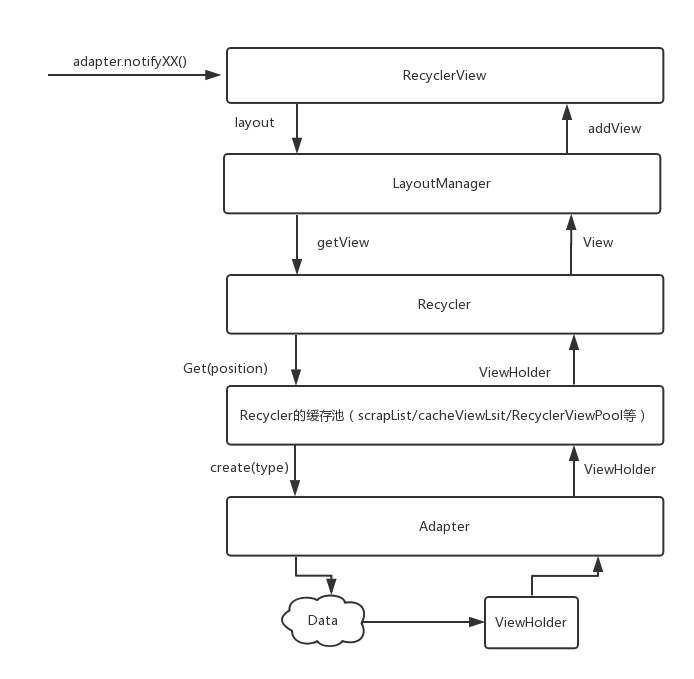
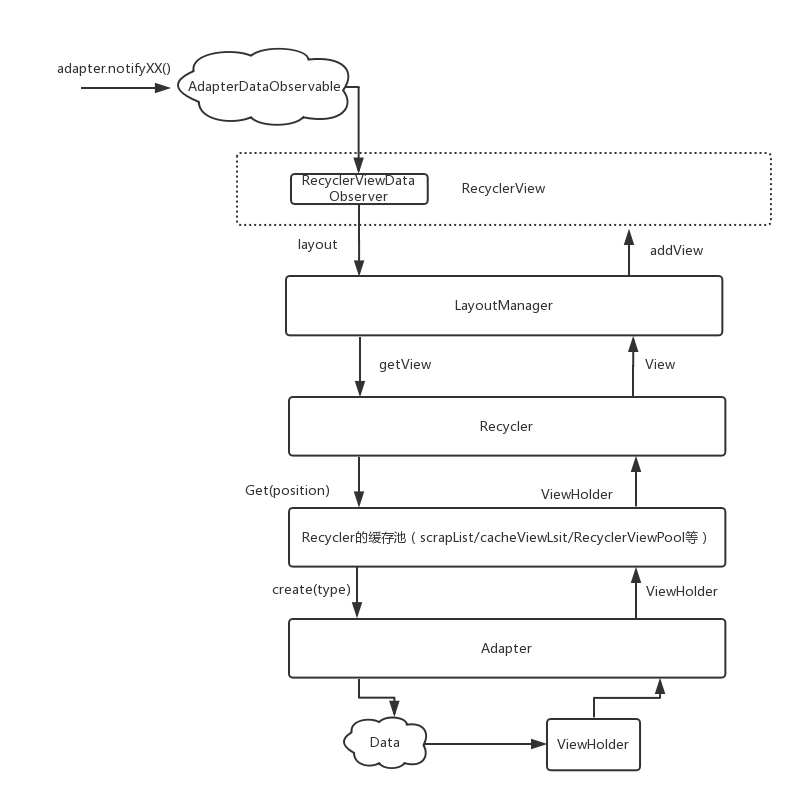
chore:添加 RecyclerView刷新机制 草稿

diff --git a/AndroidFramework源码分析/recyclerview/RecyclerView的刷新机制.md b/AndroidFramework源码分析/recyclerview/RecyclerView的刷新机制.md
@@ -1,0 +1,228 @@
+>前面分析了[RecyclerView的基本结构](https://github.com/SusionSuc/AdvancedAndroid/blob/master/AndroidFramework%E6%BA%90%E7%A0%81%E5%88%86%E6%9E%90/recyclerview/RecyclerView%E7%9A%84%E5%9F%BA%E6%9C%AC%E7%BB%84%E6%88%90%E7%BB%93%E6%9E%84.md)
+>本文继续来看一下`RecyclerView`是如何`完成UI的刷新`以及`在滑动时子View是如何被添加的`。
+
+本文会从源码分析两件事 :
+
+1. `adapter.notifyXXX()`时RecyclerView的UI刷新的逻辑,即`子View`是如何添加到`RecyclerView`中的。
+2. 在数据存在的情况下，滑动`RecyclerView`时`子View`是如何添加到`RecyclerView`的。
+
+本文不会涉及到`RecyclerView`的动画，动画的实现会专门在一篇文章中分析。
+
+## `adapter.notifyDataSetChanged()`引起的刷新
+
+我们假设`RecyclerView`在初始状态是没有数据的，然后往数据源中加入数据后，调用`adapter.notifyDataSetChanged()`来引起`RecyclerView`的刷新:
+```
+data.addAll(datas)
+adapter.notifyDataSetChanged()
+```
+用图描述就是下面两个状态的转换:
+
+![](picture/adapter.notifyDataSetChanged.png)
+
+接下来就来分析这个变化的源码，在上一篇文章中已经解释过，`adapter.notifyDataSetChanged()`时，会引起`RecyclerView`重新布局(`requestLayout`)，`RecyclerView`的`onMeasure`就不看了，核心逻辑不在这里。因此从`onLayout()`方法开始看:
+
+### RecyclerView.onLayout
+
+这个方法直接调用了`dispatchLayout`:
+```
+void dispatchLayout() {
+    ...
+    if (mState.mLayoutStep == State.STEP_START) {
+        dispatchLayoutStep1();
+        dispatchLayoutStep2();
+    } else if (数据变化 || 布局变化) {
+        dispatchLayoutStep2();
+    }
+    dispatchLayoutStep3();
+}
+```
+
+上面我裁剪掉了一些代码，可以看到整个布局过程总共分为3步, 下面是这3步对应的方法:
+
+```
+STEP_START ->  dispatchLayoutStep1()
+STEP_LAYOUT -> dispatchLayoutStep2()
+STEP_ANIMATIONS -> dispatchLayoutStep2(), dispatchLayoutStep3()
+```
+
+第一步`STEP_START`主要是来存储当前`子View`的状态并确定是否要执行动画。这一步就不细看了。 而第3步`STEP_ANIMATIONS`是来执行动画的，本文也不分析了，本文主要来看一下第二步`STEP_LAYOUT`,即`dispatchLayoutStep2()`:
+
+#### dispatchLayoutStep2()
+
+先来看一下这个方法的大致执行逻辑:
+
+```
+private void dispatchLayoutStep2() {  
+    startInterceptRequestLayout(); //方法执行期间不能重入
+    ...
+    //设置好初始状态
+    mState.mItemCount = mAdapter.getItemCount();
+    mState.mDeletedInvisibleItemCountSincePreviousLayout = 0;
+    mState.mInPreLayout = false;
+
+    mLayout.onLayoutChildren(mRecycler, mState); //调用布局管理器去布局
+
+    mState.mStructureChanged = false;
+    mPendingSavedState = null;
+    ...
+    mState.mLayoutStep = State.STEP_ANIMATIONS; //接下来执行布局的第三步
+
+    stopInterceptRequestLayout(false);
+}
+```
+
+这里有一个`mState`，它是一个`RecyclerView.State`对象。顾名思义它是用来保存`RecyclerView`状态的一个对象，主要是在`LayoutManager、Adapter等`组件之间共享状态的。可以看到这个方法将布局的工作交给了`mLayout`。这里它的实例是`LinearLayoutManager`，因此接下来看一下`LinearLayoutManager.onLayoutChildren()`:
+
+### LinearLayoutManager.onLayoutChildren()
+
+这个方法也挺长的，就不展示具体源码了。不过布局逻辑还是很简单的:
+
+1. 确定锚点`(Anchor)View`, 设置好`AnchorInfo`
+2. 确定有多少布局空间可用``
+3. 根据当前设置的`LinearLayoutManager`的方向(是否是reverse),开始摆放子View
+
+接下来就从源码来看这三步。
+
+#### 确定锚点View
+
+锚点View大部分是通过`updateAnchorFromChildren`方法确定的,这个方法主要是获取一个View，把它的信息设置到`AnchorInfo`中 :
+
+```
+mAnchorInfo.mLayoutFromEnd = mShouldReverseLayout   // 即和你是否在 manifest中设置了布局 rtl 有关
+
+private boolean updateAnchorFromChildren(RecyclerView.Recycler recycler, RecyclerView.State state, AnchorInfo anchorInfo) {
+    ...
+    View referenceChild = anchorInfo.mLayoutFromEnd
+            ? findReferenceChildClosestToEnd(recycler, state) //如果是从end(尾部)位置开始布局，那就找最接近end的那个位置的View作为锚点View
+            : findReferenceChildClosestToStart(recycler, state); //如果是从start(头部)位置开始布局，那就找最接近start的那个位置的View作为锚点View
+
+    if (referenceChild != null) {
+        anchorInfo.assignFromView(referenceChild, getPosition(referenceChild)); 
+        ...
+        return true;
+    }
+    return false;
+}
+```
+
+即， 如果是`start to end`, 那么就找最接近start(RecyclerView头部)的View作为布局的锚点View。如果是`end to start (rtl)`, 就找最接近end的View作为布局的锚点。
+
+`AnchorInfo`最重要的两个属性时`mCoordinate`和`mPosition`，找到锚点View后就会设置这两个属性，即` anchorInfo.assignFromView()`方法:
+```
+public void assignFromView(View child, int position) {
+    if (mLayoutFromEnd) {
+        mCoordinate = mOrientationHelper.getDecoratedEnd(child) + mOrientationHelper.getTotalSpaceChange();
+    } else {
+        mCoordinate = mOrientationHelper.getDecoratedStart(child);  
+    }
+    mPosition = position;
+}
+```
+
+`mCoordinate`其实就是`锚点View`的`Y(X)`坐标去掉`RecyclerView`的padding。`mPosition`其实就是`锚点View`的位置。
+
+#### 确定有多少布局空间可用并填充子View
+
+当确定好`AnchorInfo`后，需要根据`AnchorInfo`来确定`RecyclerView`当前可用于布局的空间,然后来填充子View。以布局方向为`start to end (正常方向)`为例, 这里的`锚点View`其实是`RecyclerView`最顶部的View:
+
+```
+    // fill towards end
+    updateLayoutStateToFillEnd(mAnchorInfo); //确定布局可用空间
+    ...
+    fill(recycler, mLayoutState, state, false); //填充view
+    endOffset = mLayoutState.mOffset; 
+
+    // fill towards start  
+    updateLayoutStateToFillStart(mAnchorInfo);
+    ...
+    fill(recycler, mLayoutState, state, false);
+```
+
+来看一下可用布局空间是如何确定的`updateLayoutStateToFillEnd()`:
+
+```
+updateLayoutStateToFillEnd(anchorInfo.mPosition, anchorInfo.mCoordinate);
+
+void updateLayoutStateToFillEnd(int itemPosition, int offset) {
+    mLayoutState.mAvailable = mOrientationHelper.getEndAfterPadding() - offset;
+    ...
+    mLayoutState.mCurrentPosition = itemPosition;
+    mLayoutState.mLayoutDirection = LayoutState.LAYOUT_END;
+    mLayoutState.mOffset = offset;
+    mLayoutState.mScrollingOffset = LayoutState.SCROLLING_OFFSET_NaN;
+}
+```
+
+`mLayoutState`是`LinearLayoutManager`用来保存布局状态的一个对象。`mLayoutState.mAvailable`就是用来表示`有多少空间可用来布局`。`mOrientationHelper.getEndAfterPadding() - offset`其实大致可以理解为`RecyclerView`的高度。*所以这里可用布局空间就是RecyclerView的高度*
+
+接下来继续看`LinearLayoutManager.fill()`方法，这个方法是布局的核心方法，是用来向`RecyclerView`中添加子View的方法:
+
+```
+int fill(RecyclerView.Recycler recycler, LayoutState layoutState, RecyclerView.State state, boolean stopOnFocusable) {
+    final int start = layoutState.mAvailable;  //前面分析，其实就是RecyclerView的高度
+    ...
+    int remainingSpace = layoutState.mAvailable + layoutState.mExtra;  //extra 是你设置的额外布局的范围, 这个一般不推荐设置
+    LayoutChunkResult layoutChunkResult = mLayoutChunkResult;
+    while ((layoutState.mInfinite || remainingSpace > 0) && layoutState.hasMore(state)) {
+        layoutChunkResult.resetInternal();
+        ...
+        layoutChunk(recycler, state, layoutState, layoutChunkResult);   //布局的核心方法
+        ...
+        layoutState.mOffset += layoutChunkResult.mConsumed * layoutState.mLayoutDirection; // 一次 layoutChunk 消耗了多少空间
+        ...
+        子View的回收工作
+    }
+    ...
+}
+```
+
+这里我们不看`子View回收逻辑`，会在单独的一篇文章中讲, 即这个方法的核心是调用`layoutChunk()`来不断消耗`layoutState.mAvailable`,直到消耗完毕。继续看一下`layoutChunk()方法`, 这个方法的主要逻辑是:
+
+1. 从`Recycler`中获取一个`View`
+2. 添加到`RecyclerView`中
+3. 调整`View`的布局参数，调用其`onMeasure、onLayout`方法。
+
+```
+void layoutChunk(RecyclerView.Recycler recycler, RecyclerView.State state,LayoutState layoutState, LayoutChunkResult result) {
+        View view = layoutState.next(recycler);  //这个方法会向 recycler view 要一个holder 
+        ...
+        if (mShouldReverseLayout == (layoutState.mLayoutDirection == LayoutState.LAYOUT_START)) {
+            addView(view);   
+        } else {
+            addView(view, 0);
+        }
+        measureChildWithMargins(view, 0, 0);    //调用view的measure
+        
+        ...measure后确定布局参数
+
+        layoutDecoratedWithMargins(view, left, top, right, bottom); //调用view的layout
+        ...
+    }
+```
+
+到这里其实就完成了上面的`fill towards end`:
+```
+    updateLayoutStateToFillEnd(mAnchorInfo); //确定布局可用空间
+    ...
+    fill(recycler, mLayoutState, state, false); //填充view
+```
+
+其实还有`fill towards start`:
+
+```
+    updateLayoutStateToFillStart(mAnchorInfo);
+    ...
+    fill(recycler, mLayoutState, state, false);
+```
+
+`fill towards end`我们前面已经看了，其实就是从头部开始，把子View添加到`RecyclerView`的尾部，那`fill towards start`是什么含义呢？
+
+
+
+
+
+
+
+
+
+

diff --git a/README.md b/README.md
@@ -22,25 +22,7 @@
 
 > [Android中的P与V如何写更解耦](零散但很重要/Android中的P与V如何写更解耦.md) 
 
-# 为什么要开这个repo
-
-我做`Android`的时间也不短了，近半年我越来越发现做好公司分配给我的业务并不能给我的`Android`技能带了很大的提升，因为大部分时候都在写着重复的代码。于是呢我就开始在空闲时间去看一些技术文章，
-涉及到的内容五花八门，每次看完之后都感觉学到了不少东西。可是实际上都只是知道而已、应该是这样，只是停留在表面，过一段时间可能就忘的差不多了。那要怎么提高我的`Android`水平呢？去向公司要一些有
-挑战性的工作来做吗？我想公司不会去按你的想法分配给你工作。那怎么办呢？
-
-每个人都有适合自己的学习、提升的方式。我个人感觉: 纸上得来终觉浅，绝知此事要躬行。因此我决定真真正正的去弄清楚这些东西。我认为最好的方式是看源码，因为我们每天使用的东西都是在一些
-代码的基础上来做的。弄清楚源码，你写的就踏实、用的就顺畅。
-
-举个例子 : 比如插件化，我看一些技术博客知道要解决插件类加载、资源加载、插件四大组件运行的问题。可是解决办法可能看过一遍就忘记了。
-那要怎么做到去了解这个技术呢？首先这个东西业界已经开源了很多源码。真真正正去了解这个技术最好的方法就是去看源码，因为源码中它所用到的东西都是藏不住的。
-并且在看源码的过程中，针对于一个点，比如插件的类加载，源码中肯定都是直接告诉你去如何加载。那就会有疑问，于是就会去了解类加载相关知识，也就学到了类加载相关知识点。
-这也就是高中时老师常说的`以点带面`。
-
-所以通过研究一个一个技术点，你所学到东西就会像一颗树一样慢慢的变的枝繁叶茂。这就是我所想的进阶我的Android技术的方式。开这个`repo`的原因:
-
-*就是想把我所学到的东西都认认真真记录下来，并且成一个体系，方便我以后查阅。也希望通过这个`repo`来提升我的文字表达能力，至少希望现在记录的东西将来看一遍后能立刻就理解。也希望可以分享给别人，因为这也是认真做一件事情的动力。*
-
-除此之外这个repo还会记录我在工作中对于业务、编码、技术使用的思考和总结。
+# [为什么要开这个repo](为什么要开这个repo.md)
 
 # 其他
 

diff --git a/为什么要开这个repo.md b/为什么要开这个repo.md
@@ -1,0 +1,19 @@
+# 为什么要开这个repo
+
+我做`Android`的时间也不短了，近半年我越来越发现做好公司分配给我的业务并不能给我的`Android`技能带了很大的提升，因为大部分时候都在写着重复的代码。于是呢我就开始在空闲时间去看一些技术文章，
+涉及到的内容五花八门，每次看完之后都感觉学到了不少东西。可是实际上都只是知道而已、应该是这样，只是停留在表面，过一段时间可能就忘的差不多了。那要怎么提高我的`Android`水平呢？去向公司要一些有
+挑战性的工作来做吗？我想公司不会去按你的想法分配给你工作。那怎么办呢？
+
+每个人都有适合自己的学习、提升的方式。我个人感觉: 纸上得来终觉浅，绝知此事要躬行。因此我决定真真正正的去弄清楚这些东西。我认为最好的方式是看源码，因为我们每天使用的东西都是在一些
+代码的基础上来做的。弄清楚源码，你写的就踏实、用的就顺畅。
+
+举个例子 : 比如插件化，我看一些技术博客知道要解决插件类加载、资源加载、插件四大组件运行的问题。可是解决办法可能看过一遍就忘记了。
+那要怎么做到去了解这个技术呢？首先这个东西业界已经开源了很多源码。真真正正去了解这个技术最好的方法就是去看源码，因为源码中它所用到的东西都是藏不住的。
+并且在看源码的过程中，针对于一个点，比如插件的类加载，源码中肯定都是直接告诉你去如何加载。那就会有疑问，于是就会去了解类加载相关知识，也就学到了类加载相关知识点。
+这也就是高中时老师常说的`以点带面`。
+
+所以通过研究一个一个技术点，你所学到东西就会像一颗树一样慢慢的变的枝繁叶茂。这就是我所想的进阶我的Android技术的方式。开这个`repo`的原因:
+
+*就是想把我所学到的东西都认认真真记录下来，并且成一个体系，方便我以后查阅。也希望通过这个`repo`来提升我的文字表达能力，至少希望现在记录的东西将来看一遍后能立刻就理解。也希望可以分享给别人，因为这也是认真做一件事情的动力。*
+
+除此之外这个repo还会记录我在工作中对于业务、编码、技术使用的思考和总结。

diff --git a/AndroidFramework源码分析/recyclerview/RecyclerView的基本设计结构.md b/AndroidFramework源码分析/recyclerview/RecyclerView的基本设计结构.md
@@ -33,7 +33,7 @@ class ViewHolder {
 
 ## Adapter
 
-它的工作是把`data`和`View`绑定，即上面说的一个`data`对应一个`ViewHolder`。比如下面这个Adapter:
+它的工作是把`data`和`View`绑定，即上面说的一个`data`对应一个`ViewHolder`。主要负责`ViewHolder`的创建以及数据变化时通知`RecycledView`。比如下面这个Adapter:
 
 ```
 class SimpleStringAdapter(val dataSource: List<String>, val context: Context) : RecyclerView.Adapter<RecyclerView.ViewHolder>() {
@@ -49,6 +49,10 @@ class SimpleStringAdapter(val dataSource: List<String>, val context: Context) : 
     override fun getItemCount() = dataSource.size
 
     override fun getItemViewType(position: Int) = 1
+
+    override fun notifyDataSetChanged() {   //super的实现
+        mObservable.notifyChanged();
+    }  
 }
 ```
 即: 
@@ -88,7 +92,7 @@ class SimpleStringAdapter(val dataSource: List<String>, val context: Context) : 
 
 ## LayoutManager
 
-它是`RecyclerView`的布局管理者，`RecyclerView`在`onLayout`时，会利用它来`layoutChildren`,它决定了`RecyclerView`中的子View如何摆放。但不止如此, 它做的工作还有:
+它是`RecyclerView`的布局管理者，`RecyclerView`在`onLayout`时，会利用它来`layoutChildren`,它决定了`RecyclerView`中的子View的摆放规则。但不止如此, 它做的工作还有:
 
 1. 测量子View
 2. 对子View进行布局
@@ -159,7 +163,7 @@ private ScrapData getScrapDataForType(int viewType) {
 }
 ```
 
-以上所述，是`RecycledView`最核心的组成部分。接下来会继续分析`RecycledView`是如何利用它们来工作起来的。
+以上所述，是`RecycledView`最核心的组成部分(本文并没有描述动画的部分)。接下来会继续分析`RecycledView`是如何利用它们来工作起来的。
 
 >欢迎关注我的[Android进阶计划](https://github.com/SusionSuc/AdvancedAndroid)。看更多干货
 
